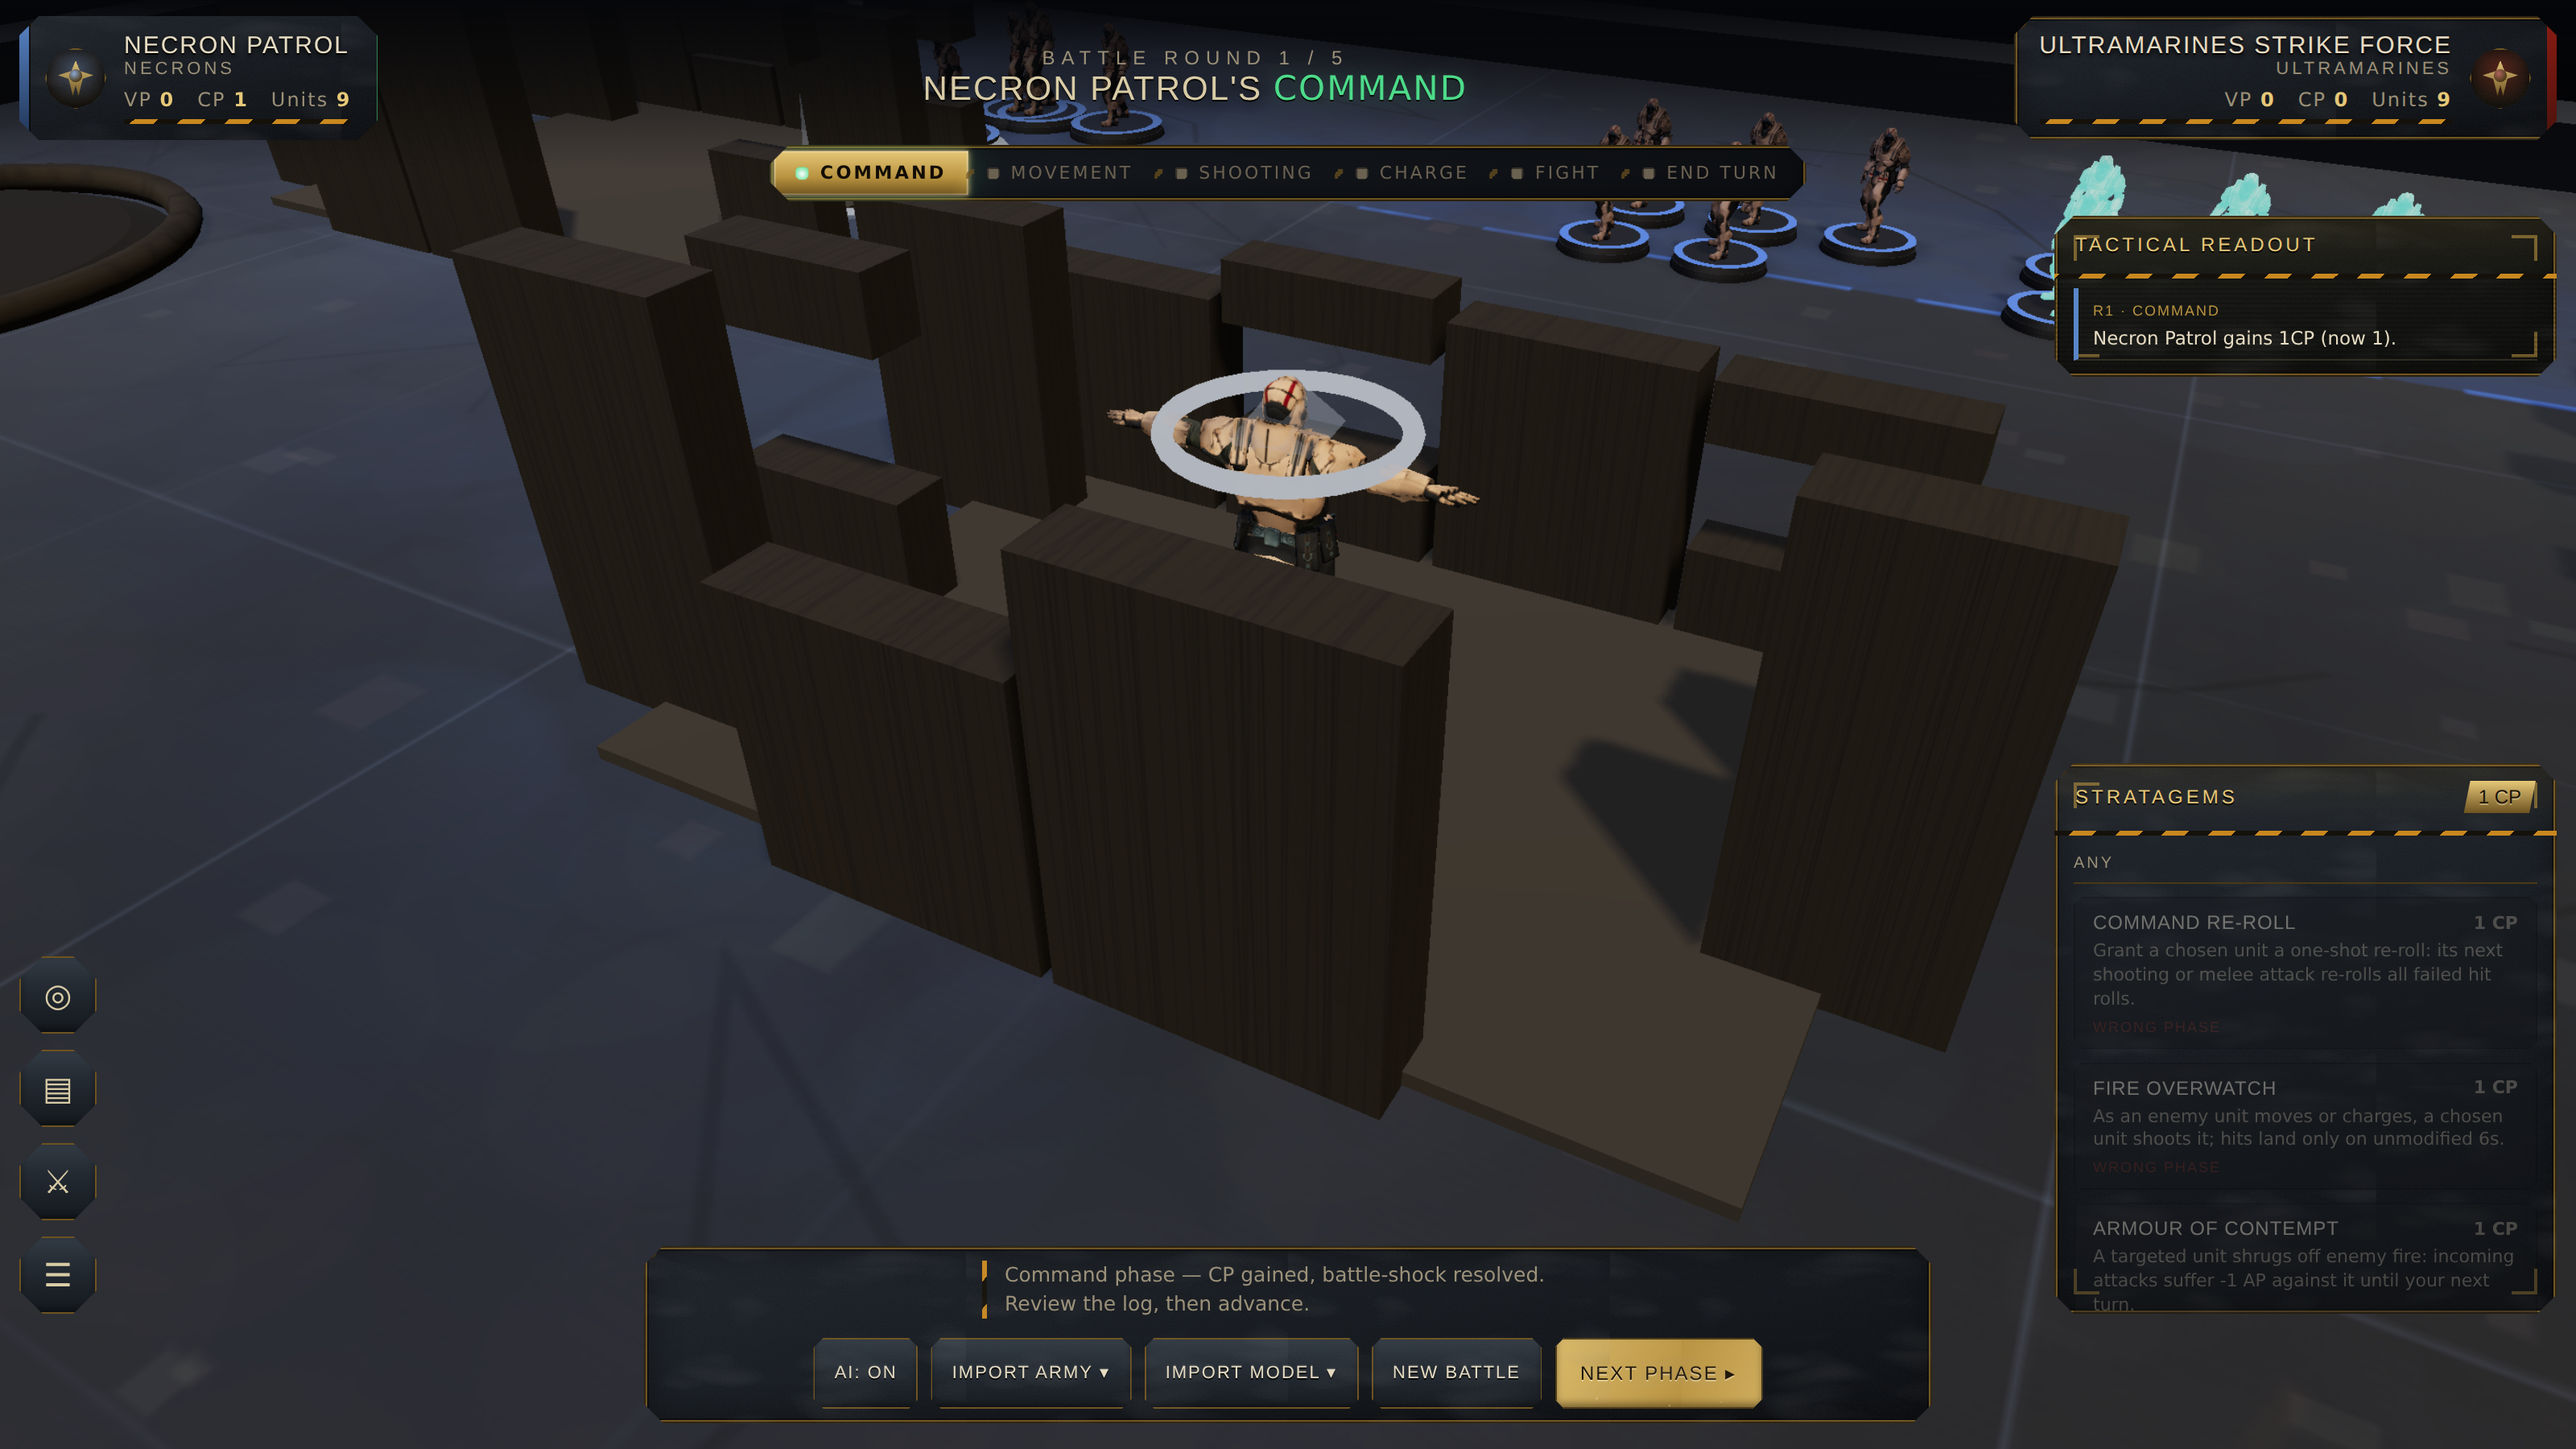
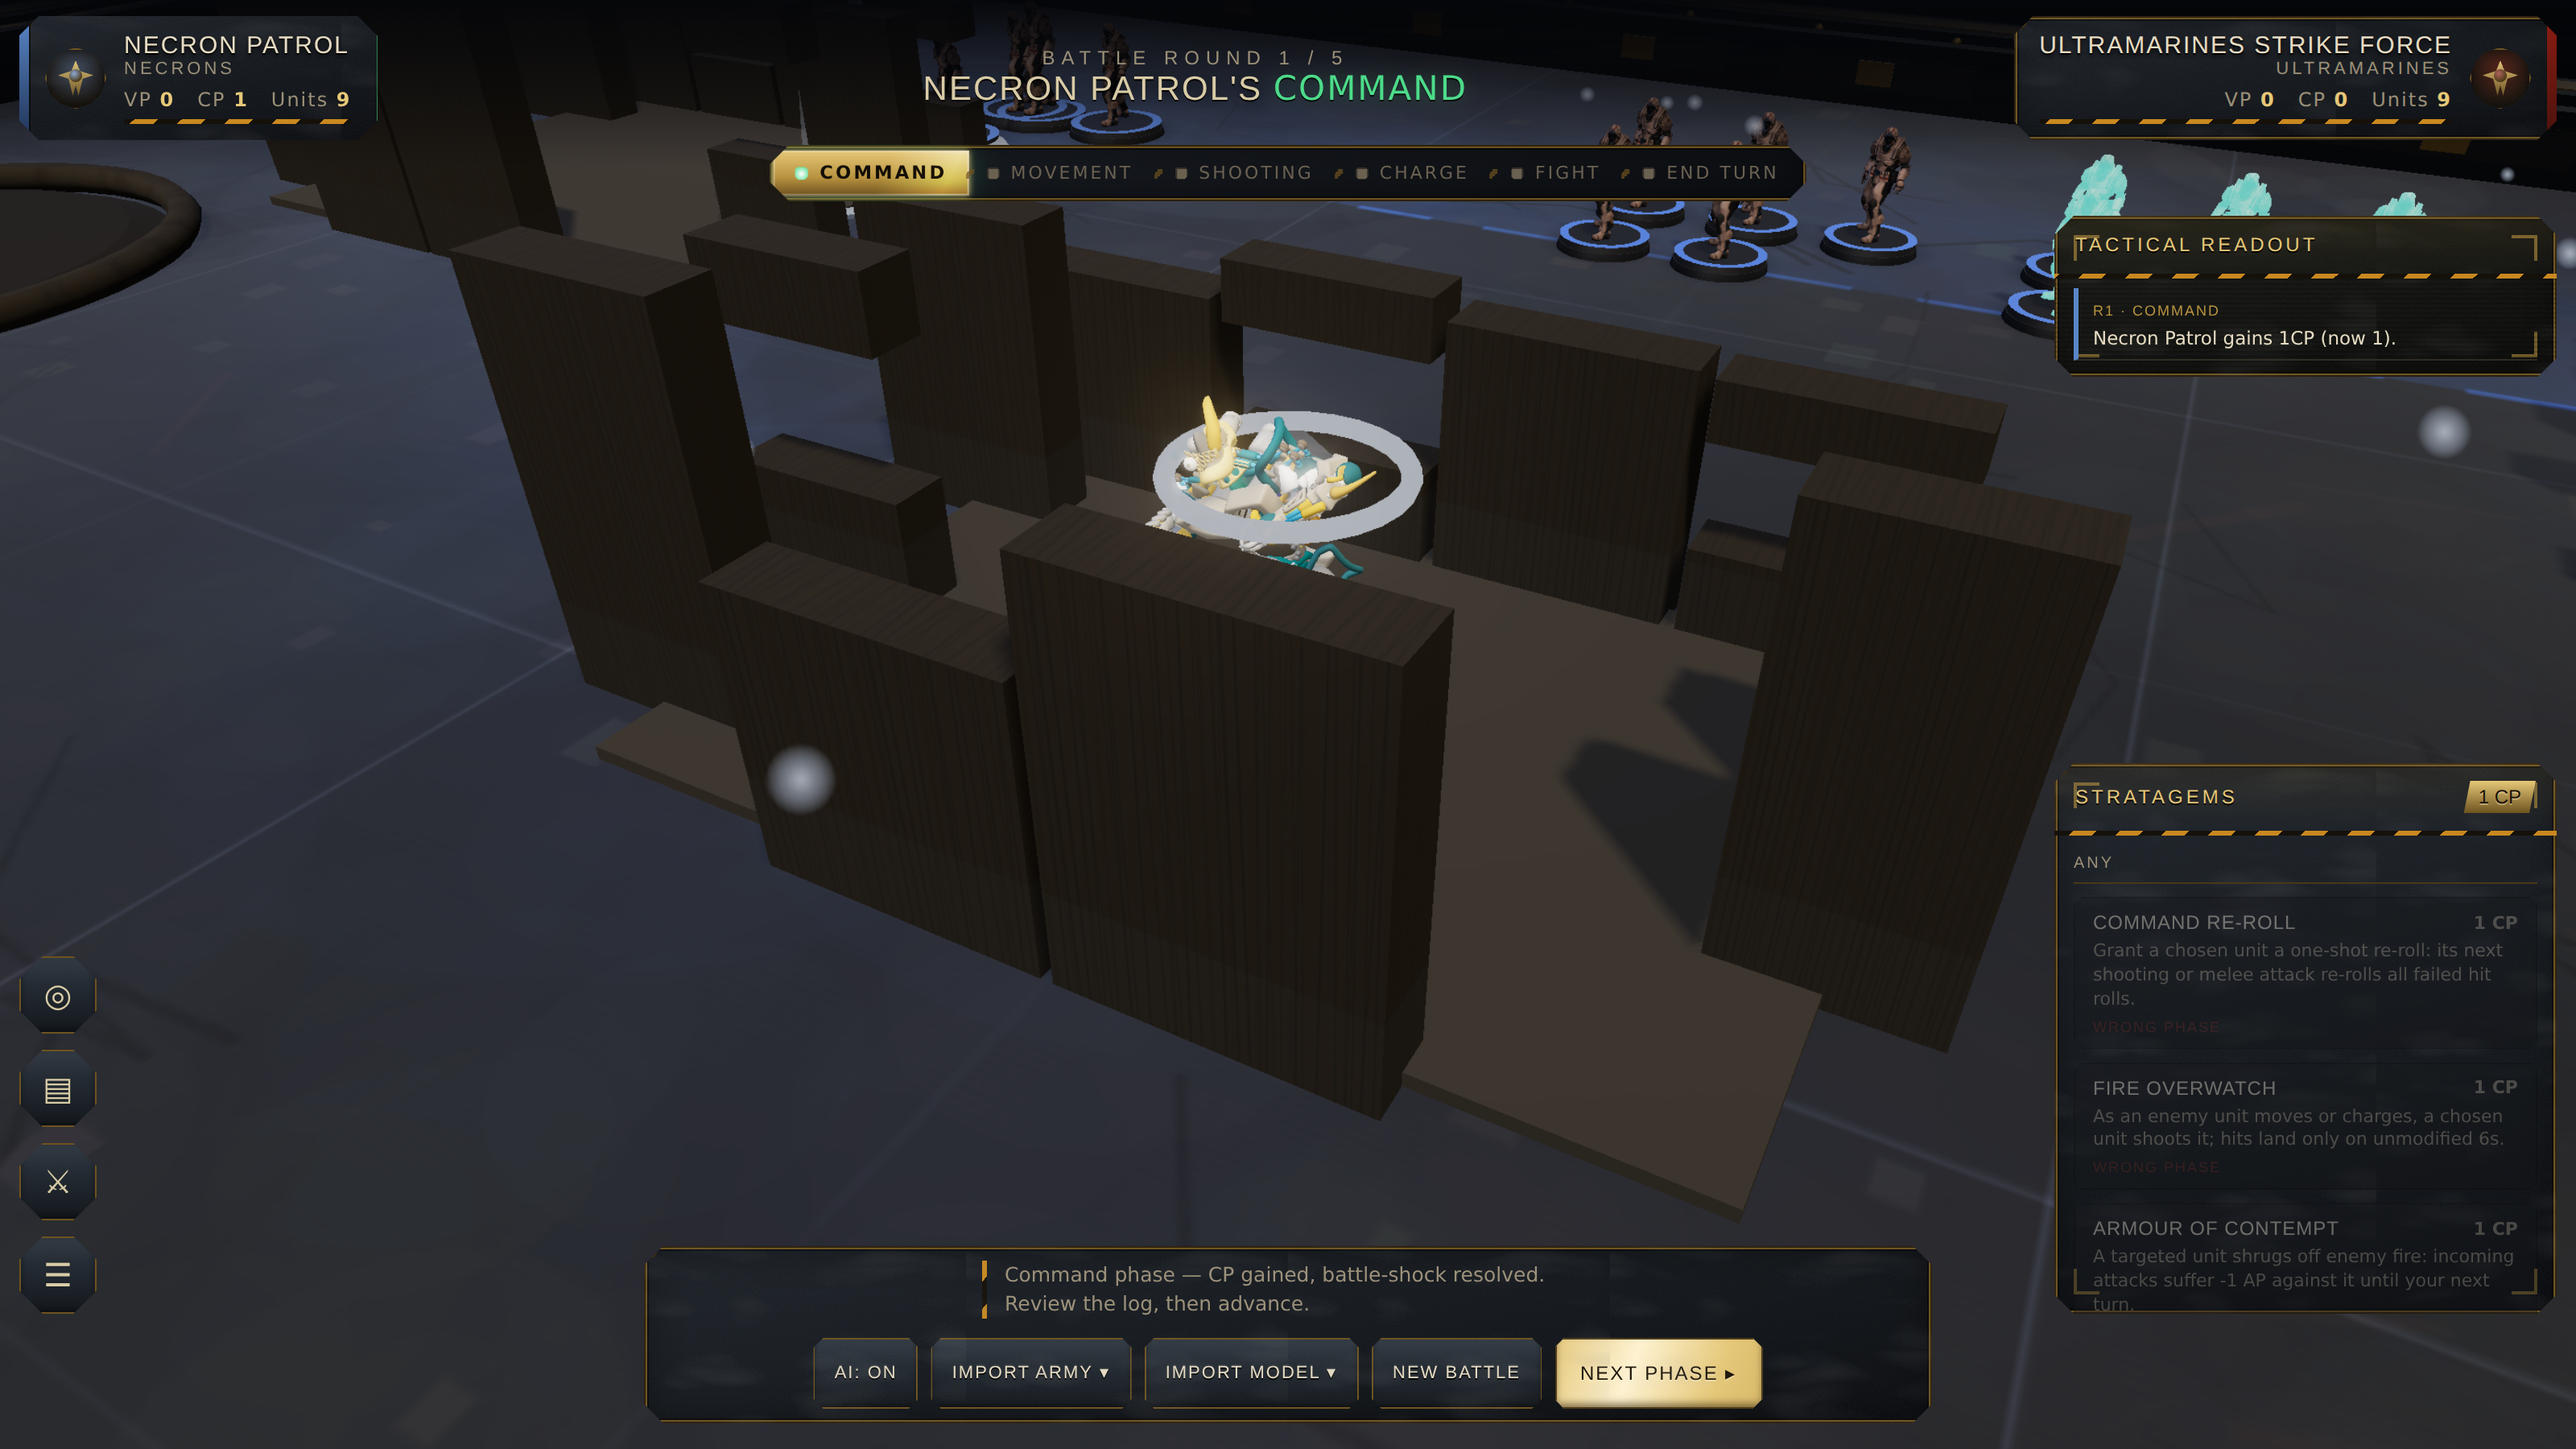
Add persistent per-unit-type model assignments (legal 'use my models' path)
- ModelAssignments: localStorage map of datasheetId -> model (URL or data-URL).
- Import Model modal: 'Apply to all <UnitName> and remember' applies the model
  to every unit of that type and persists it.
- main: saved assignments auto-apply to matching units on every battle build.
Verified in-browser (zero errors). 351 tests pass, build green.

Claude-Session: https://claude.ai/code/session_017cP5UXbtBHAKPfxjZDVjCB

diff --git a/src/ui/HUD.ts b/src/ui/HUD.ts
@@ -5,6 +5,7 @@ import { aliveModels, unitCentroid, inEngagementRange } from '../engine/geometry
 import { runAiTurn } from '../engine/ai';
 import { DiceTray } from './DiceTray';
 import { Rng } from '../engine/dice';
+import { setAssignment, fileToDataUrl, formatFromName, type ModelFormat } from '../render/ModelAssignments';
 
 const PHASES: Phase[] = ['command', 'movement', 'shooting', 'charge', 'fight', 'end'];
 const PHASE_LABEL: Record<Phase, string> = {
@@ -872,21 +873,17 @@ export class GameUI {
       this.toast('Select a unit to apply a model to', true);
       return;
     }
-    const detectFmt = (s: string): 'gltf' | 'glb' | 'obj' | 'stl' => {
-      const e = s.toLowerCase().split('?')[0];
-      if (e.endsWith('.glb')) return 'glb';
-      if (e.endsWith('.obj')) return 'obj';
-      if (e.endsWith('.stl')) return 'stl';
-      return 'gltf';
-    };
     const backdrop = document.createElement('div');
     backdrop.className = 'modal-backdrop show';
     backdrop.innerHTML = `
       <div class="modal">
         <h3>Import 3D model → ${unit.name}</h3>
-        <p>Paste a public model URL (glTF/GLB/OBJ/STL) or choose a file. Replaces this unit's visual.</p>
+        <p>Use models you have the rights to. Paste a public URL (glTF/GLB/OBJ/STL) or choose a file.</p>
         <input id="murl" type="text" placeholder="https://…/model.glb" style="width:100%;margin-bottom:8px;background:#0c1016;color:var(--ink);border:1px solid var(--edge);border-radius:8px;padding:9px;font-family:ui-monospace,monospace;font-size:12px;" />
-        <input id="mfile" type="file" accept=".glb,.gltf,.obj,.stl" style="font-size:12px;" />
+        <input id="mfile" type="file" accept=".glb,.gltf,.obj,.stl" style="font-size:12px;margin-bottom:10px;" />
+        <label style="display:flex;gap:8px;align-items:center;font-size:12px;color:var(--muted);cursor:pointer;">
+          <input id="mall" type="checkbox" checked /> Apply to all <b style="color:var(--ink);margin:0 3px;">${unit.name}</b> and remember it
+        </label>
         <div class="warn" id="mwarn"></div>
         <div class="row">
           <button class="btn small" id="mCancel">Cancel</button>
@@ -896,22 +893,39 @@ export class GameUI {
     this.root.appendChild(backdrop);
     const url = backdrop.querySelector('#murl') as HTMLInputElement;
     const file = backdrop.querySelector('#mfile') as HTMLInputElement;
+    const all = backdrop.querySelector('#mall') as HTMLInputElement;
     const warn = backdrop.querySelector('#mwarn') as HTMLElement;
     const close = () => backdrop.remove();
     (backdrop.querySelector('#mCancel') as HTMLElement).onclick = close;
     (backdrop.querySelector('#mGo') as HTMLElement).onclick = () => {
       const f = file.files?.[0];
-      const src: string | File | undefined = f ?? (url.value.trim() || undefined);
+      const raw = url.value.trim();
+      const src: string | File | undefined = f ?? (raw || undefined);
       if (!src) {
         warn.textContent = 'Provide a URL or choose a file.';
         return;
       }
-      const fmt = detectFmt(f ? f.name : url.value);
+      const fmt: ModelFormat = formatFromName(f ? f.name : raw);
+      const applyToAll = all.checked;
       warn.textContent = 'Loading…';
-      this.scene
-        .importUnitModel(unit.id, src, fmt)
-        .then(() => {
-          this.toast(`Model applied to ${unit.name}`);
+      // The set of units to update: just this one, or every unit of its type.
+      const targets = applyToAll
+        ? Object.values(this.engine.state.units).filter((u) => u.datasheetId === unit.datasheetId)
+        : [unit];
+      Promise.all(targets.map((u) => this.scene.importUnitModel(u.id, src, fmt)))
+        .then(async () => {
+          if (applyToAll) {
+            // Persist so it auto-applies to this unit type in future battles.
+            const persistSrc = f ? await fileToDataUrl(f).catch(() => '') : raw;
+            const ok = persistSrc ? setAssignment(unit.datasheetId, { src: persistSrc, format: fmt }) : false;
+            this.toast(
+              ok
+                ? `Saved for all ${unit.name}`
+                : `Applied to all ${unit.name} (too large to remember between sessions)`,
+            );
+          } else {
+            this.toast(`Model applied to ${unit.name}`);
+          }
           close();
         })
         .catch((e: unknown) => {

diff --git a/src/render/ModelAssignments.ts b/src/render/ModelAssignments.ts
@@ -1,0 +1,84 @@
+/**
+ * Persistent per-datasheet model assignments.
+ *
+ * Lets a player map a model (a public URL, or a local file stored as a data URL)
+ * to a whole unit TYPE (datasheet id), so every unit of that type shows that
+ * figure — automatically, across battles. Stored in localStorage.
+ *
+ * This is the legal path to "my army looks like my models": the player supplies
+ * models they have the rights to; the app never ships or fetches anyone's
+ * copyrighted assets.
+ */
+
+export type ModelFormat = 'gltf' | 'glb' | 'obj' | 'stl';
+
+export interface ModelAssignment {
+  /** A remote URL, OR a data: URL for a locally-imported file. */
+  src: string;
+  format: ModelFormat;
+  heightInches?: number;
+}
+
+const KEY = 'grimdark.modelAssignments.v1';
+
+/** Load the full datasheetId -> assignment map (never throws). */
+export function loadAssignments(): Record<string, ModelAssignment> {
+  try {
+    const raw = localStorage.getItem(KEY);
+    if (!raw) return {};
+    const parsed = JSON.parse(raw);
+    return parsed && typeof parsed === 'object' ? (parsed as Record<string, ModelAssignment>) : {};
+  } catch {
+    return {};
+  }
+}
+
+/** Assign a model to a datasheet id (persisted). Safe against quota errors. */
+export function setAssignment(datasheetId: string, a: ModelAssignment): boolean {
+  try {
+    const all = loadAssignments();
+    all[datasheetId] = a;
+    localStorage.setItem(KEY, JSON.stringify(all));
+    return true;
+  } catch {
+    return false; // e.g. data URL too large for localStorage quota
+  }
+}
+
+/** Remove a datasheet's assignment. */
+export function clearAssignment(datasheetId: string): void {
+  try {
+    const all = loadAssignments();
+    delete all[datasheetId];
+    localStorage.setItem(KEY, JSON.stringify(all));
+  } catch {
+    /* ignore */
+  }
+}
+
+/** Wipe all assignments. */
+export function clearAllAssignments(): void {
+  try {
+    localStorage.removeItem(KEY);
+  } catch {
+    /* ignore */
+  }
+}
+
+/** Read a File as a data: URL (for persisting local imports). */
+export function fileToDataUrl(file: File): Promise<string> {
+  return new Promise((resolve, reject) => {
+    const r = new FileReader();
+    r.onload = () => resolve(String(r.result));
+    r.onerror = () => reject(r.error ?? new Error('read failed'));
+    r.readAsDataURL(file);
+  });
+}
+
+export function formatFromName(name: string): ModelFormat {
+  const e = name.toLowerCase().split('?')[0];
+  if (e.endsWith('.glb')) return 'glb';
+  if (e.endsWith('.obj')) return 'obj';
+  if (e.endsWith('.stl')) return 'stl';
+  return 'gltf';
+}

diff --git a/src/main.ts b/src/main.ts
@@ -10,6 +10,7 @@ import { SAMPLE_ROSTERS } from './import/sampleRosters';
 import { CORE_STRATAGEMS } from './engine/stratagems';
 import { NetController } from './net/NetController';
 import { PeerTransport } from './net/PeerTransport';
+import { loadAssignments } from './render/ModelAssignments';
 import type { PlayerId } from './engine/types';
 
 /**
@@ -86,6 +87,7 @@ class App {
     });
     this.ui.bind(this.engine);
     this.wireStratagems();
+    this.applyModelAssignments();
     this.scene.frameBoard();
     if (import.meta.env.DEV) {
       const w = window as Window & { __demoDice?: () => void; __frameBiggest?: () => void };
@@ -130,6 +132,16 @@ class App {
         resync();
         for (const t of [800, 1800, 3000, 4500]) window.setTimeout(resync, t);
       };
+    }
+  }
+
+  /** Apply persisted per-datasheet model assignments to the deployed units. */
+  private applyModelAssignments(): void {
+    const assignments = loadAssignments();
+    if (Object.keys(assignments).length === 0) return;
+    for (const u of Object.values(this.engine.state.units)) {
+      const a = assignments[u.datasheetId];
+      if (a) void this.scene!.importUnitModel(u.id, a.src, a.format, a.heightInches ?? 3.6);
     }
   }
 
